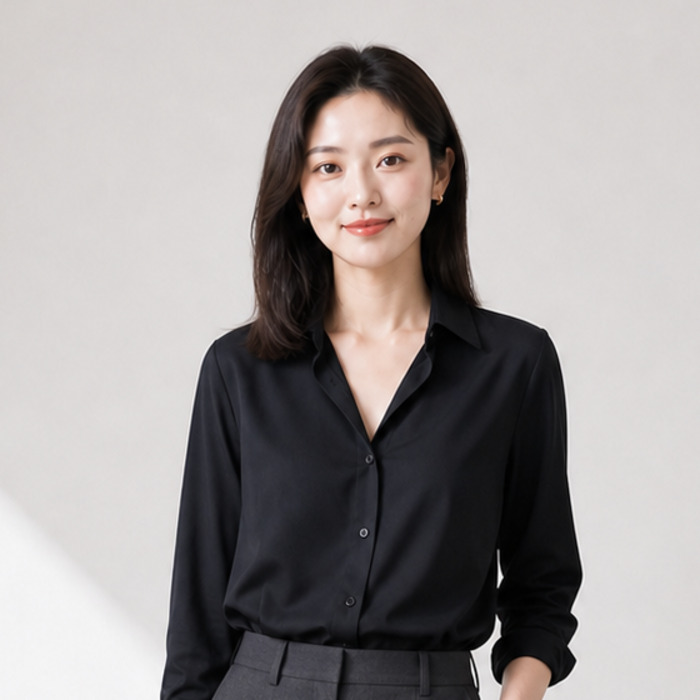
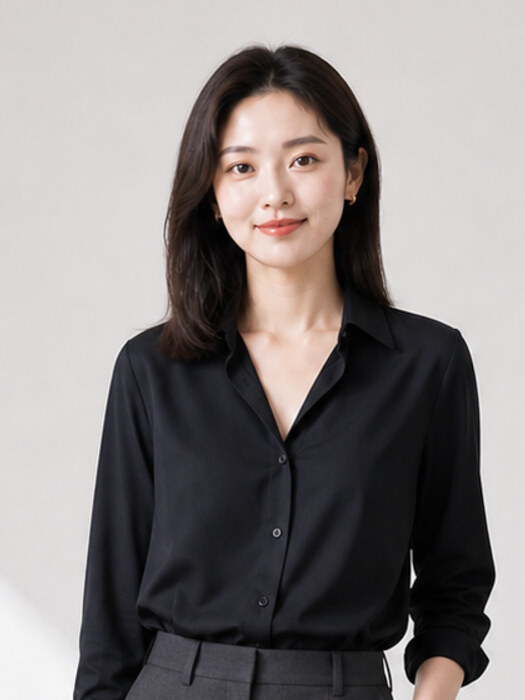
feat(miniapp): 发型预览域对齐 3:4 显示规范——首页卡竖框、示例图重切、历史卡归一
首页发型卡的视觉区原是 54%×卡高的横向盒，竖构图生成图 aspectFit 后缩成
中央小岛、两侧大片模糊——「示例图/生成图尺寸不合适」的直接来源。改为
198×264rpx 固定 3:4 竖框（blur 衬底降级为非 3:4 历史图的兜底）；内置示例
重切为 525×700 与真实输出同构图；发型页历史卡 160×200(4:5) 归一到
150×200(3:4)，widthFix 零裁切。

diff --git a/apps/miniapp/src/pages/home/index.scss b/apps/miniapp/src/pages/home/index.scss
@@ -432,7 +432,8 @@
     // （每页至多一个深色视觉锚点；两块 moss-deep 连排会互相抢焦点）
     &--lead {
       flex: 1 1 100%;
-      min-height: 210rpx;
+      // 视觉区是 3:4 竖框（见 &-visual），卡高让出框体 + 上下边距
+      min-height: 304rpx;
       justify-content: flex-end;
       padding: 32rpx 46% 30rpx 28rpx;
       background: #d9e2d1;
@@ -484,12 +485,16 @@
 
     &-visual {
       position: absolute;
-      top: 0;
-      right: 0;
+      top: 20rpx;
+      right: 20rpx;
       z-index: -2;
-      width: 54%;
-      height: 100%;
-      border-radius: 0;
+      // 发型预览域统一 3:4 竖框：与服务端归一化裁切（hairNormalizer 3:4）、
+      // 内置示例（525×700）同一条规范——3:4 的图恰好铺满，不再「竖图在横向盒里
+      // 缩成中央小岛」；历史遗留的非 3:4 图由框内 blur 衬底兜底。
+      width: 198rpx;
+      height: 264rpx;
+      border-radius: var(--radius-md);
+      overflow: hidden;
 
       // 失焦衬底铺满：照片两侧的空区是同图失焦放大版，不是死色块
       &-blur {

diff --git a/apps/miniapp/src/packages/tools/pages/hair/index.scss b/apps/miniapp/src/packages/tools/pages/hair/index.scss
@@ -344,7 +344,9 @@
     }
 
     &-card {
-      width: 160rpx;
+      // 3:4 竖框：与发型预览的显示规范（服务端归一化裁切、内置示例）一致，
+      // 3:4 的图 widthFix 后恰好铺满，不再裁底
+      width: 150rpx;
       border-radius: var(--radius-md);
       overflow: hidden;
       border: 2rpx solid transparent;
